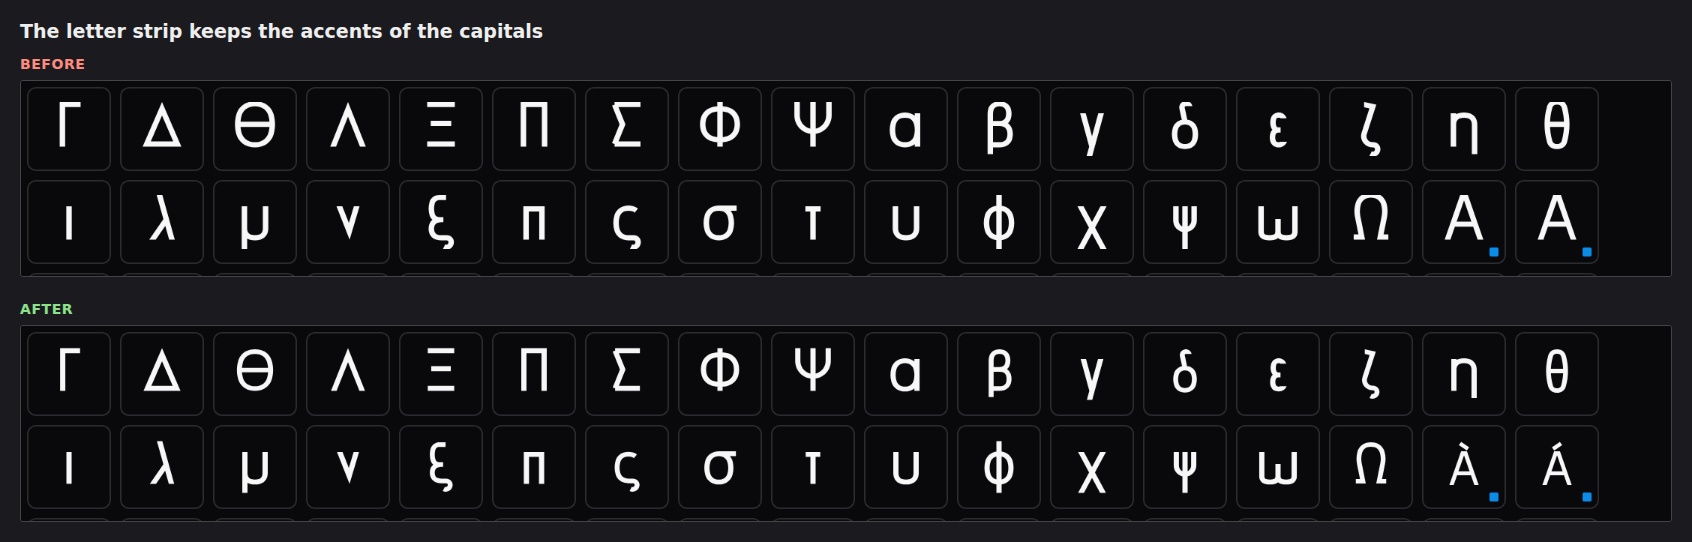
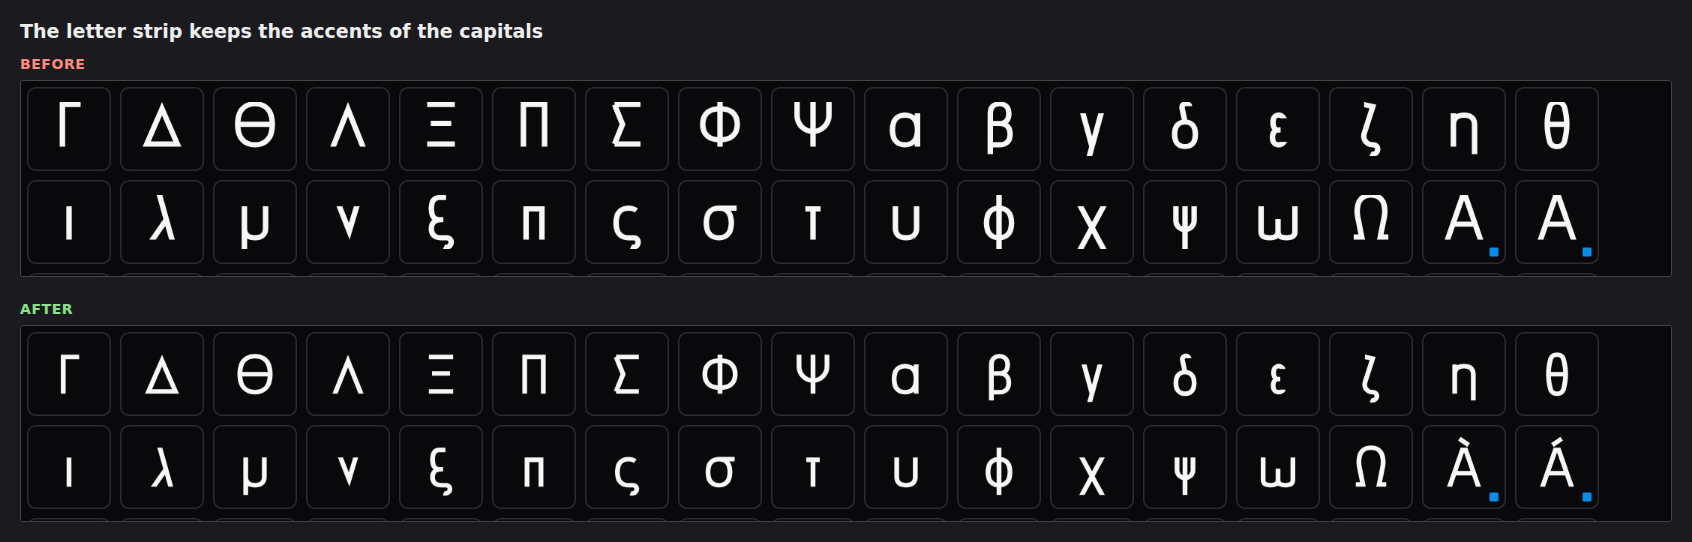
Update the summary and screenshots for the review fixes

diff --git a/SUMMARY-ui.md b/SUMMARY-ui.md
@@ -60,6 +60,34 @@ the line at every weight. I measured this. Sans `(` tops out at 750 at weights
    closing up any more. An answer about an earlier font is now dimmed and
    marked "Rechecking…" until the new one arrives. (`ForgeView.tsx`)
 
+## Found in review and fixed
+
+A second check of the finished work found these. Each was confirmed in the
+browser or with a test before it was fixed.
+
+1. **Letters were drawn at different sizes.** Framing each letter to its own
+   ink kept it whole but changed its size: on the stage Å was drawn 14%
+   smaller than A and the baseline moved 11 px; in the strip À was 20%
+   smaller; the specimen shrank 15% when an Å was typed. Every letter now
+   shares one frame taken from the font's own reach (the letters that go
+   furthest), grown only for ink that goes further still. The strip letter is
+   drawn one size larger to make up for the taller frame.
+2. **The stage jumped size when a drag began.** It was framed by the live
+   drawing, and a cast is left off during a drag. It is framed by the font as
+   it last settled now.
+3. **The tool's proof cropped the ring of an Å** by 135 units. It uses the
+   same shared frame.
+4. **"My Formal Script Formal Script".** The doubled-name check matched single
+   words, so two-word styles slipped through. It matches whole phrases now.
+5. **Warning chips were named with glyph names for screen readers** ("Show
+   ccedilla" on a chip showing ç). They are named with the character shown.
+6. **Accents over their limit were told to raise the ascender.** Their limit
+   follows the cap height, and raising the ascender changed nothing. The advice
+   now says "A taller cap height", and a test checks that following it works.
+7. **One line changed in `src/App.tsx`**, outside the folders this work was
+   limited to. The views now report which one is on screen
+   (`src/state/surface.ts`), and `App.tsx` is back as it was.
+
 ## Checked and fine
 
 - On Sans and Serif, one change at a time, with a screenshot after each (113
@@ -69,7 +97,9 @@ the line at every weight. I measured this. Sans `(` tops out at 750 at weights
   finish, and Cut at 25° under Angled; every g, y and j alternate; and all 14
   cut and cast switches. Updates took 0.2 to 0.7 s, well under 2 s. Every
   alternate keeps at least 44 units of room on the stage.
-- Edit mode Weight, Width, Slant and Corner radius took 0.07 to 0.3 s.
+- Edit mode Weight, Width, Slant and Corner radius took 0.08 to 0.44 s, with
+  a screenshot after each change. A glyph opened in the editor at width 1.25
+  shows whole.
 - Layout at 768, 1024, 1440 and 2560 px wide: no horizontal page scroll and
   nothing broken. At 768 px the "Letter A" tab truncates to "Lette…" and the
   top bar wraps to two rows. Both are acceptable.
@@ -90,16 +120,18 @@ the line at every weight. I measured this. Sans `(` tops out at 750 at weights
 ## Tests
 
 - New unit tests: `ink-frame.test.ts`, `part-idle.test.ts`,
-  `letter-label.test.ts`, `StatusBar.test.ts`, plus new cases in
+  `letter-label.test.ts`, `StatusBar.test.ts`, `surface.test.ts`, plus new
+  cases in
   `health.test.ts`, `drawn.test.ts` and `forge-store.test.ts`.
-- New e2e spec: `e2e/polish-ui.spec.ts` (7 tests). On the old code, 6 of the 7
-  fail. The seventh, the Edit-grid width test, cannot fail on this font: with
-  the width cap removed, W at Width 1.5, Middle space 1.4 and full Weight still
-  fills only 78% of its cell, under the 86% where the cap starts. It stays as
-  a check that widened letters are whole. The cap itself is unit-tested in
-  `glyph-render.test.ts`.
+- New e2e spec: `e2e/polish-ui.spec.ts` (10 tests). Each fails on the code it
+  guards, except the Edit-grid width test. That bug was fixed before this work
+  and could not be brought back: with the width cap removed, the widest letter
+  at Width 1.5 fills 83.7% of its cell (in the sample font and in DejaVu
+  Sans), under the 86% where the cap starts. It stays as a check that widened
+  letters are whole; the cap itself is unit-tested in `glyph-render.test.ts`.
 - Every commit passed `npx tsc -b --noEmit`, `npx biome check .` and
   `npx vitest run src/components src/state src/views src/forge/health.test.ts`
-  (571 tests at the end). `e2e/polish-ui.spec.ts` and `e2e/workspace.spec.ts`
-  pass in Chromium. WebKit and Firefox were not run. `e2e/forge.spec.ts` passes except for the one failure
-  noted above.
+  (577 tests at the end). `e2e/polish-ui.spec.ts` (run twice over) and
+  `e2e/workspace.spec.ts` pass in Chromium. `e2e/forge.spec.ts` passes except
+  for the one failure noted above. WebKit and Firefox are not installed in this
+  container, so those two projects could not run here; CI runs them.
